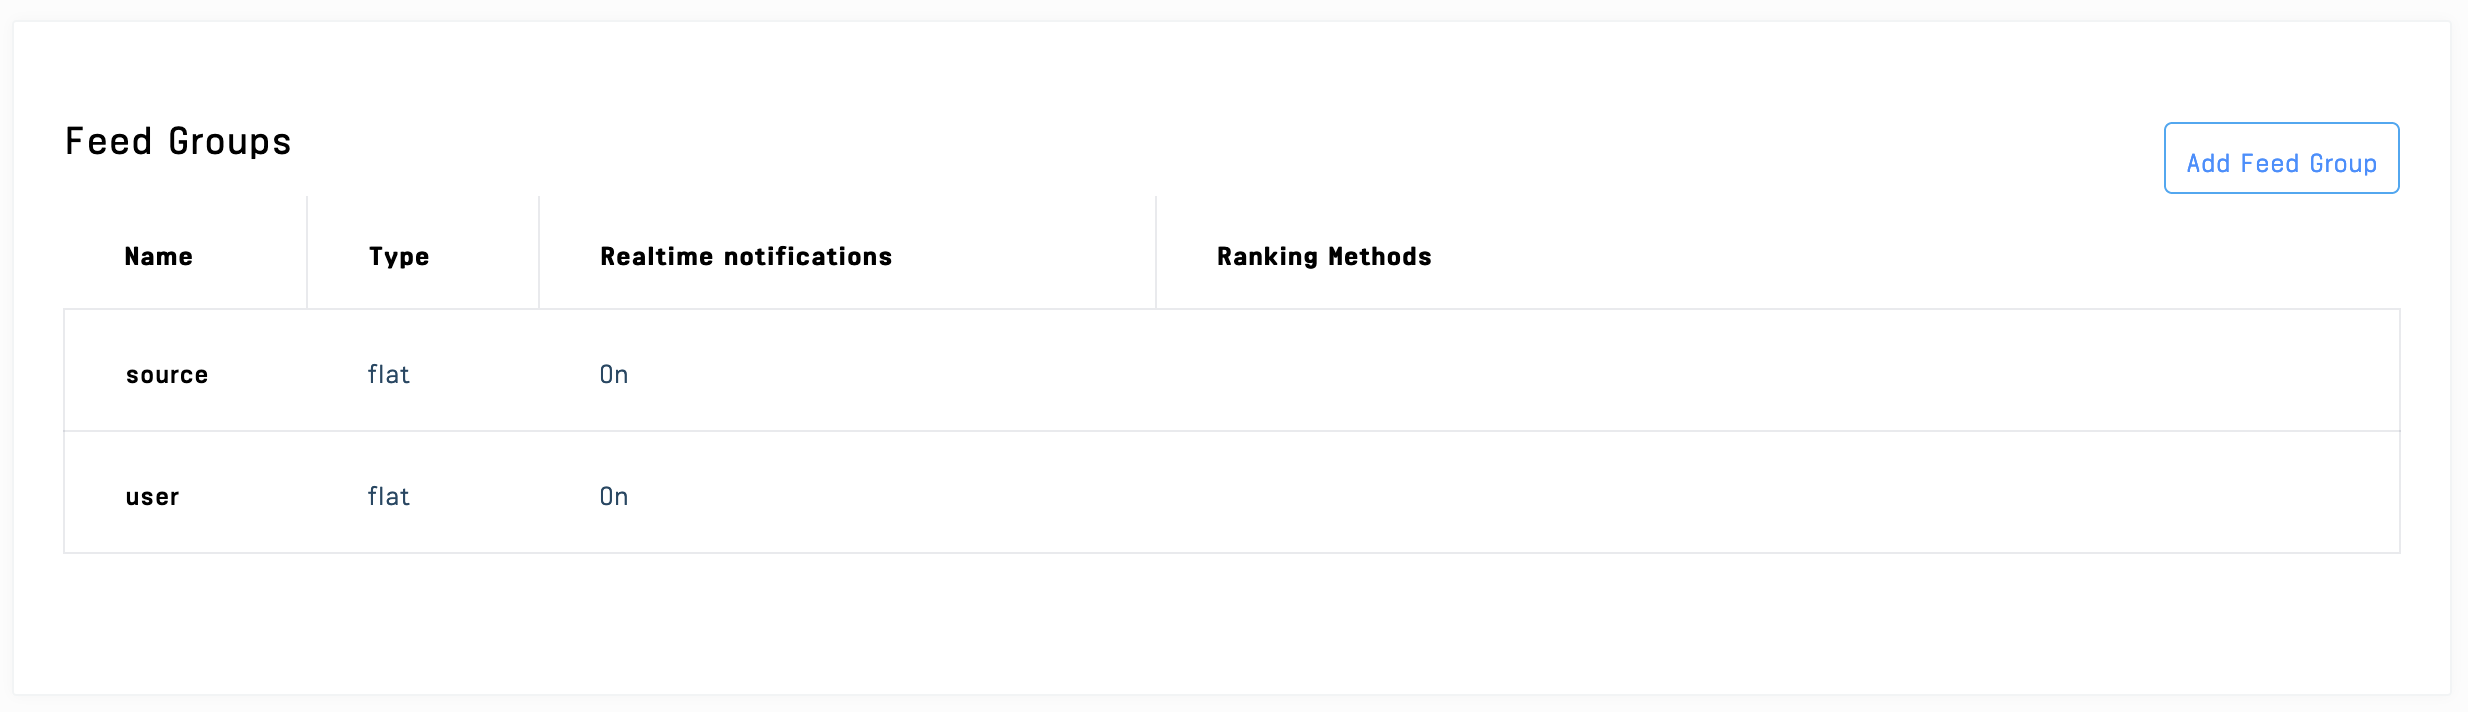
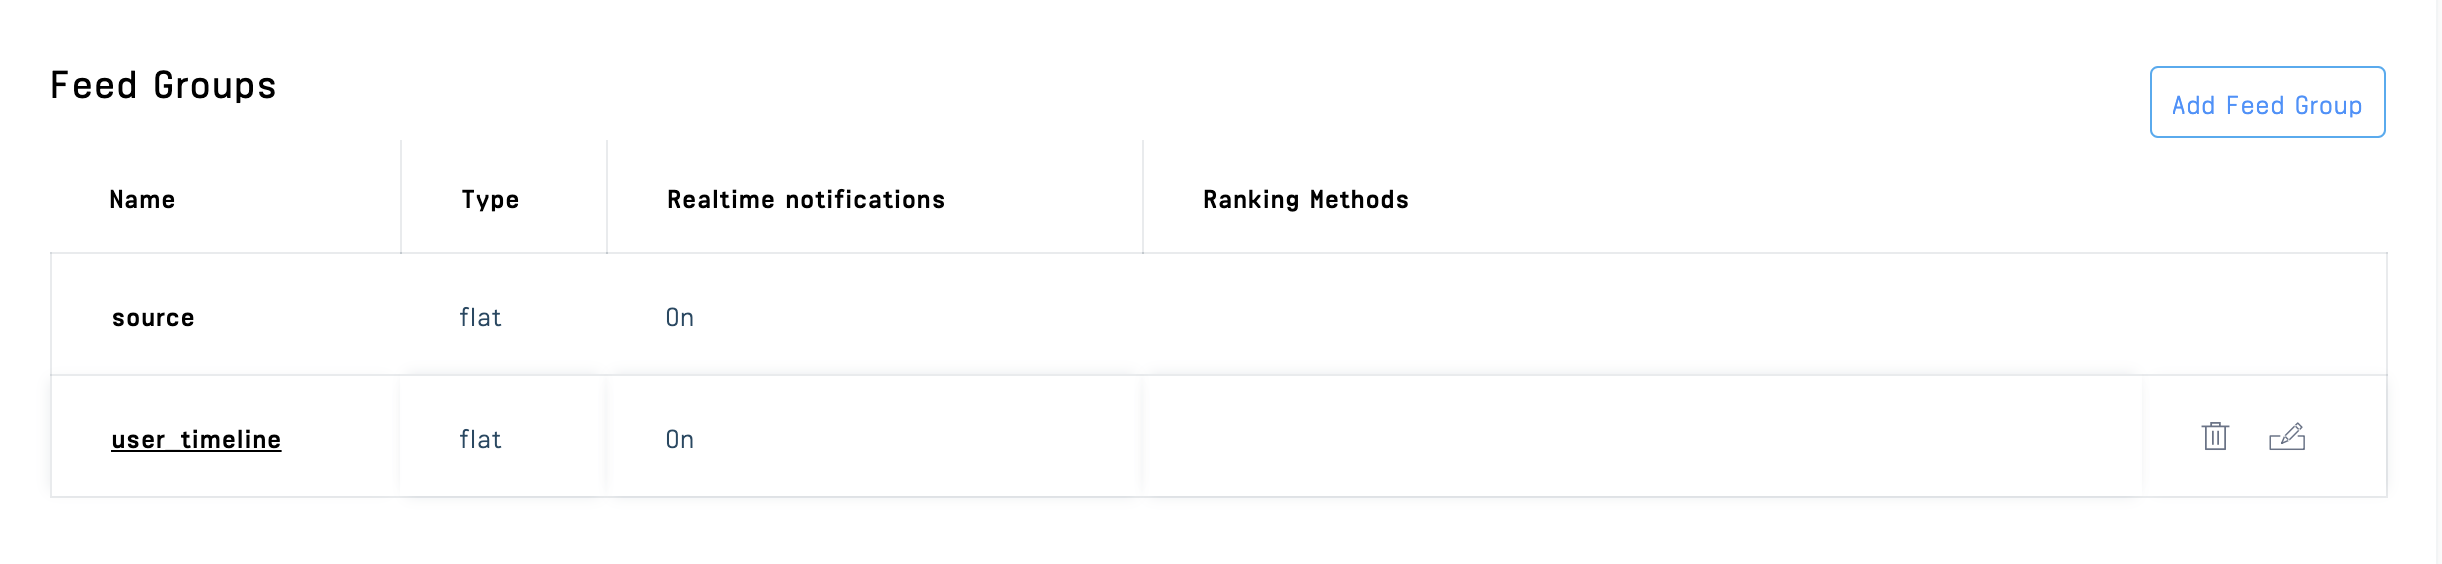
fixed extra await and group name

diff --git a/backend/routes/index.js b/backend/routes/index.js
@@ -18,11 +18,11 @@ router.post('/registration', async (req, res) => {
 
     const userToken = client.createUserToken(username);
 
-    client.user(username).getOrCreate({
+    await client.user(username).getOrCreate({
       name: username,
     });
 
-    const userFeed = await client.feed('user', username);
+    const userFeed = client.feed('user_timeline', username);
 
     await userFeed.follow('source', 'reddit');
 
@@ -47,7 +47,7 @@ router.post('/initialize', async (req, res) => {
       name: 'reddit'
     });
 
-    const redditFeed = await client.feed('source', 'reddit');
+    redditFeed = await client.feed('source', 'reddit');
 
     const redditUpdate = await axios.get('https://www.reddit.com/r/popular/top.json?count=3');
 
@@ -71,7 +71,7 @@ router.post('/initialize', async (req, res) => {
       name: 'bbc'
     });
 
-    const bbcFeed = await client.feed('source', 'bbc');
+    const bbcFeed = client.feed('source', 'bbc');
 
     const parser = new Parser();
 
@@ -97,7 +97,7 @@ router.post('/initialize', async (req, res) => {
 
 router.post('/reddit-zapier-webhook', async (req, res) => {
   try {
-    const redditFeed = await client.feed('source', 'reddit');
+    const redditFeed = client.feed('source', 'reddit');
 
     const post = await req;
 
@@ -123,7 +123,7 @@ router.post('/reddit-zapier-webhook', async (req, res) => {
 
 router.post('/bbc', async (req, res) => {
   try {
-    const bbcFeed = await client.feed('source', 'bbc');
+    const bbcFeed = client.feed('source', 'bbc');
 
     await bbcFeed.addActivity({
       'actor': 'bbc',

diff --git a/frontend/src/App.js b/frontend/src/App.js
@@ -48,7 +48,7 @@ function App() {
             <button onClick={initializeFeeds}>One-time-Initialize</button>
           </div>
           <FlatFeed
-            feedGroup="user"
+            feedGroup="user_timeline"
             notify
             options={{ limit: 6 }}
             Paginator={(props) => (

diff --git a/README.md b/README.md
@@ -123,7 +123,7 @@ Once you're signed up, create a Stream Feed app:
 
     ![](./images/app-name.png)
 
-3. In the App Dashboard, add two new `feed groups` to your app. Name them `source` and `user`, and use the default `flat` group type.
+3. In the App Dashboard, add two new `feed groups` to your app. Name them `source` and `user_timeline`, and use the default `flat` group type.
 
     ![](./images/add-feed-group.png) 
 
@@ -210,7 +210,7 @@ router.post('/registration', async (req, res) => {
       name: username,
     });
 
-    const userFeed = await client.feed('user', username);
+    const userFeed = await client.feed('user_timeline', username);
 
     await userFeed.follow('source', 'reddit');
 
@@ -230,13 +230,13 @@ router.post('/registration', async (req, res) => {
 });
 ```
 
-Consider the use of the `'user'` and `'source'` feed groups above. This app uses the `'source'` feed group for content coming from reddit and BBC News, and the `'user'` feed group for the user's `flat` feed. The app would still work if the feed groups were the same, but we recommended using different groups in cases like this. 
+Consider the use of the `'user'` and `'source'` feed groups above. This app uses the `'source'` feed group for content coming from reddit and BBC News, and the `'user_timeline'` feed group for the user's `flat` feed. The app would still work if the feed groups were the same, but we recommended using different groups in cases like this. 
 
 So, our `backend` has provided the `frontend` with a `token` and `streamApiKey` so it can start the app. Next, let's see how the feeds are displayed.
 
 ## 🔮 Rendering Feeds
 
-Stream has an entire library for React feeds called [`react-activity-feed`](https://getstream.github.io/react-activity-feed/). It includes some slick components with excellent built-in functionality. The next snippet is the heart of the `frontend` and uses a few of these components to render the `user`'s `user` feed.
+Stream has an entire library for React feeds called [`react-activity-feed`](https://getstream.github.io/react-activity-feed/). It includes some slick components with excellent built-in functionality. The next snippet is the heart of the `frontend` and uses a few of these components to render the `user`'s `user_timeline` feed.
 
 <!-- https://gist.github.com/isaidspaghetti/726a9b8382bc182c3d3da56664a9a976 -->
 ```html
@@ -249,7 +249,7 @@ return (
         <button onClick={initializeFeeds}>One-time-Initialize</button>
       </div>
       <FlatFeed
-        feedGroup="user"
+        feedGroup="user_timeline"
         notify
         options={{ limit: 6 }}
         Paginator={(props) => (
@@ -288,7 +288,7 @@ We use the `'limit : 20'` property in the `options` prop to determine how many p
 The `Paginator` prop handles scrolling functionality. In this app, we utilize Stream's `<InfiniteScrollPaginator/>` component, which gives our app a nice, modern scroll UX. 
 
 ## 🤽🏻♂ Activities
-[`Activities`](https://getstream.io/docs/adding_activities/?language=js) makeup a feed. They can be videos, pictures, articles, or anything else a user might post. `<FlatFeed/>` passes each `activity` to be rendered in the `user`'s feed to the `Activity` prop. The `Activity` prop then determines *how* to render each `activity`. 
+[`Activities`](https://getstream.io/docs/adding_activities/?language=js) makeup a feed. They can be videos, pictures, articles, or anything else a user might post. `<FlatFeed/>` passes each `activity` to be rendered in the `user`'s `user_timeline` feed to the `Activity` prop. The `Activity` prop then determines *how* to render each `activity`. 
 
 As you might have guessed, Stream has a built-in `<Activity />` component as well, but for this app we have a specific format in mind, so we'll create a custom component (`<Post/>`) instead. Before we dive into the `<Post/>` component, let's look at how `activities` are generated in Stream.
 
